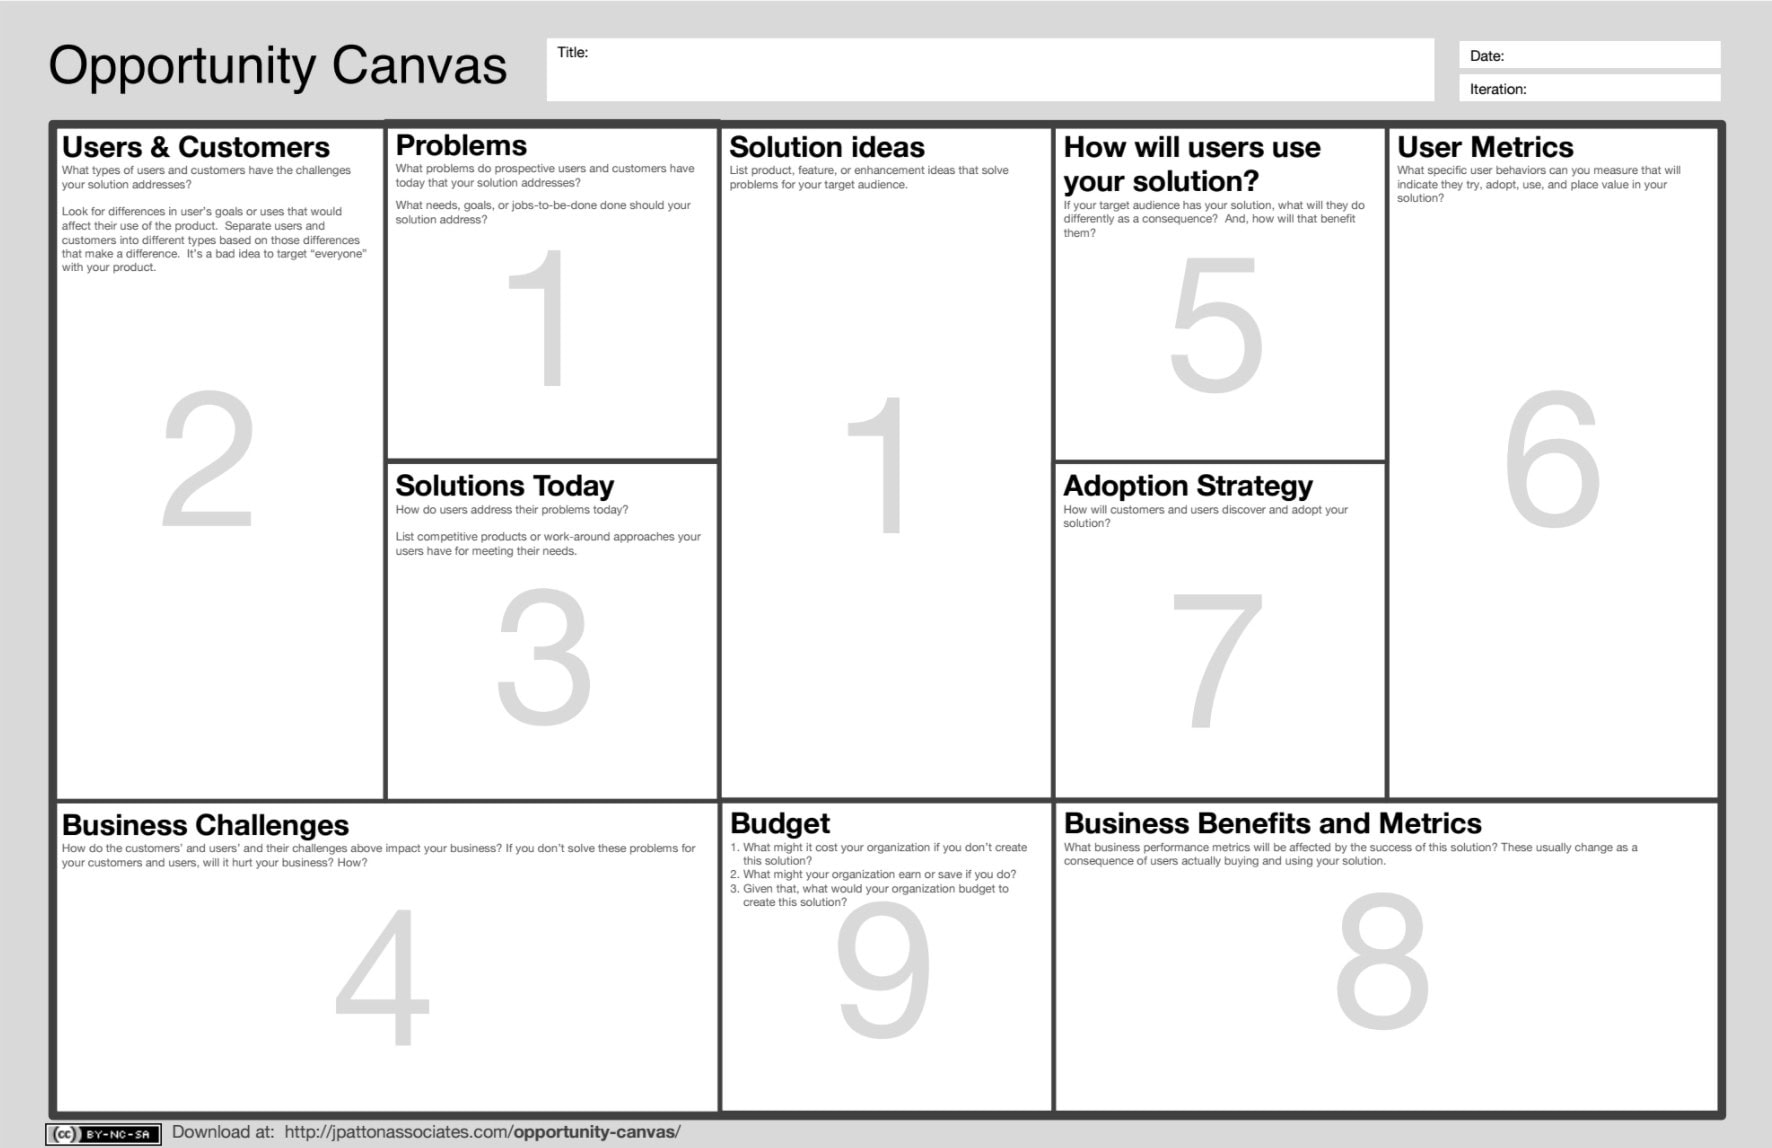
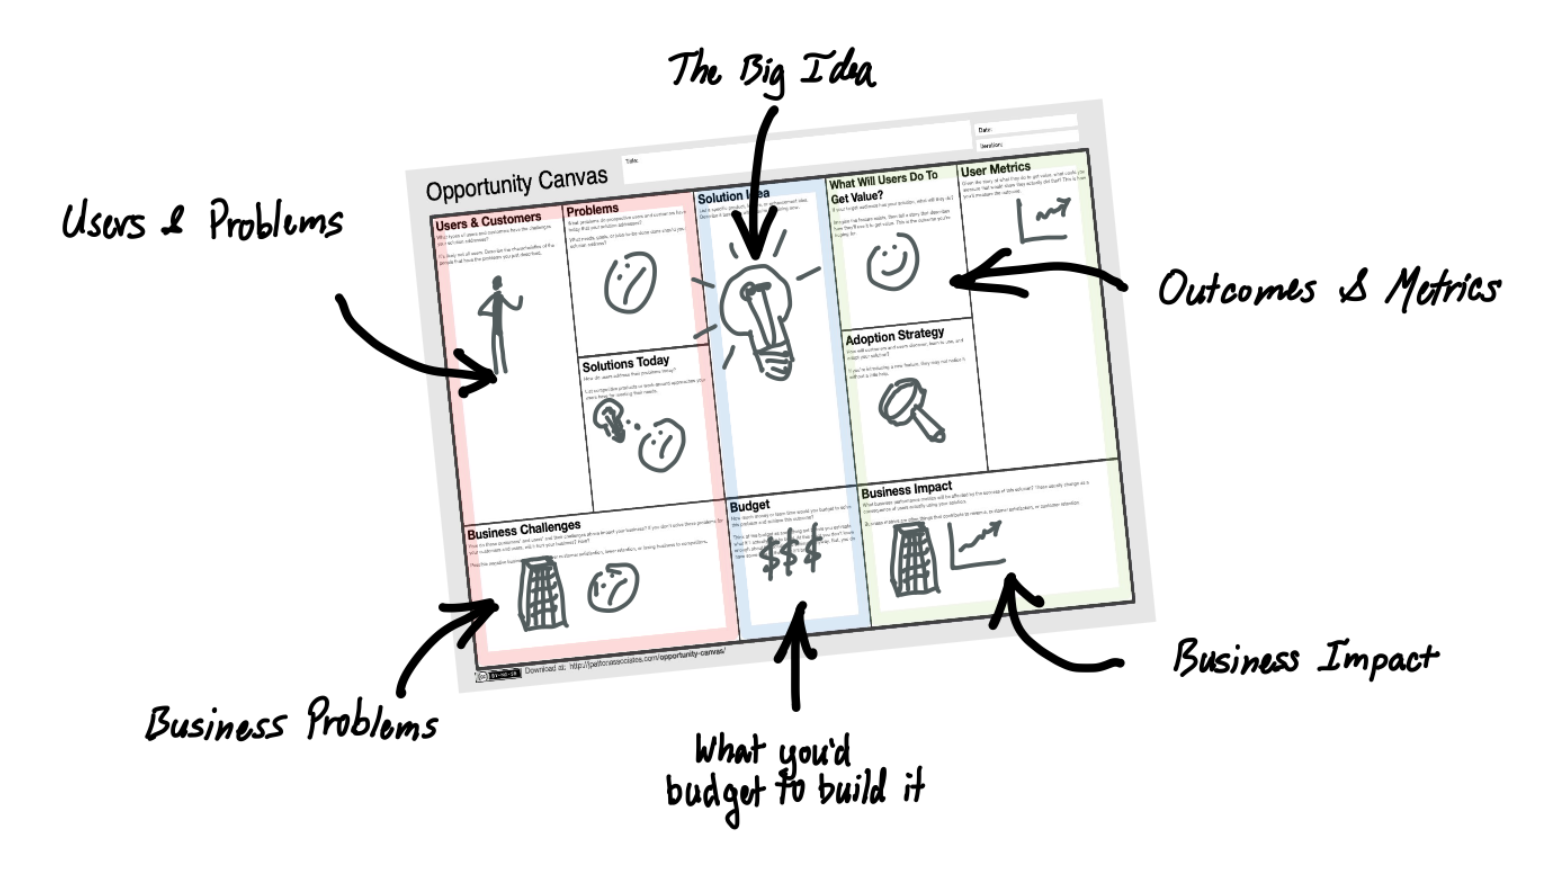
feat: se arregla el canva

diff --git a/is-702-ads/unidad-1/3.md b/is-702-ads/unidad-1/3.md
@@ -170,6 +170,13 @@ Una vez recopilada la información, el PO necesita una forma de clasificarla par
    caption="Referencia Visual: Figura: Opportunity Canvas, pág. 235 (Sección: Start with Opportunities), libro: User Story Mapping." 
 %}
 
+{% include imagen.html 
+   url="../assets/is-702-ads/unidad-1/12.png" 
+   alt="Opportunity Canvas" 
+   caption="Referencia Visual: Figura: Opportunity Canvas, pág. 235 (Sección: Start with Opportunities), libro: User Story Mapping." 
+%}
+
+
 El Opportunity Canvas es un tablero dividido en 9 secciones numeradas que organiza la información de forma espacial para que el equipo pueda ver relaciones y dependencias.
 
 **El flujo de lectura:**
@@ -179,15 +186,15 @@ El Opportunity Canvas es un tablero dividido en 9 secciones numeradas que organi
 
 ### Las 9 piezas del rompecabezas (Secciones del Canvas):
 
-**Problemas o Soluciones:** Identifica qué ideas tienes o qué problemas detectaste.
-**Usuarios y Clientes:** Define específicamente para quién estamos construyendo (no es para "todos").
-**Soluciones Hoy:** ¿Cómo sobrevive el usuario actualmente? (competencia o procesos manuales).
-**Valor para el Usuario:** ¿Qué podrá hacer el usuario de forma diferente una vez que tenga el sistema?.
-**Métricas de Usuario:** ¿Qué comportamientos podemos medir para saber si lo están usando?.
-**Estrategia de Adopción:** ¿Cómo van a descubrir los usuarios esta nueva funcionalidad?.
-**Problema de Negocio:** ¿Qué problema le resuelve a nuestra empresa construir esto?.
-**Métricas de Negocio:** ¿Cómo se verá reflejado el éxito en los ingresos o la eficiencia de la Empresa?.
-**Presupuesto:** ¿Cuánto dinero o tiempo estamos dispuestos a invertir en descubrir y construir esto?.
+**1. Problemas o Soluciones:** Identifica qué ideas tienes o qué problemas detectaste.
+**2. Usuarios y Clientes:** Define específicamente para quién estamos construyendo (no es para "todos").
+**3. Soluciones Hoy:** ¿Cómo sobrevive el usuario actualmente? (competencia o procesos manuales).
+**4. Valor para el Usuario:** ¿Qué podrá hacer el usuario de forma diferente una vez que tenga el sistema?.
+**5. Métricas de Usuario:** ¿Qué comportamientos podemos medir para saber si lo están usando?.
+**6. Estrategia de Adopción:** ¿Cómo van a descubrir los usuarios esta nueva funcionalidad?.
+**7. Problema de Negocio:** ¿Qué problema le resuelve a nuestra empresa construir esto?.
+**8. Métricas de Negocio:** ¿Cómo se verá reflejado el éxito en los ingresos o la eficiencia de la Empresa?.
+**9. Presupuesto:** ¿Cuánto dinero o tiempo estamos dispuestos a invertir en descubrir y construir esto?.
 
 
 ### 5. Clasificación Técnica: El Modelo Kano
